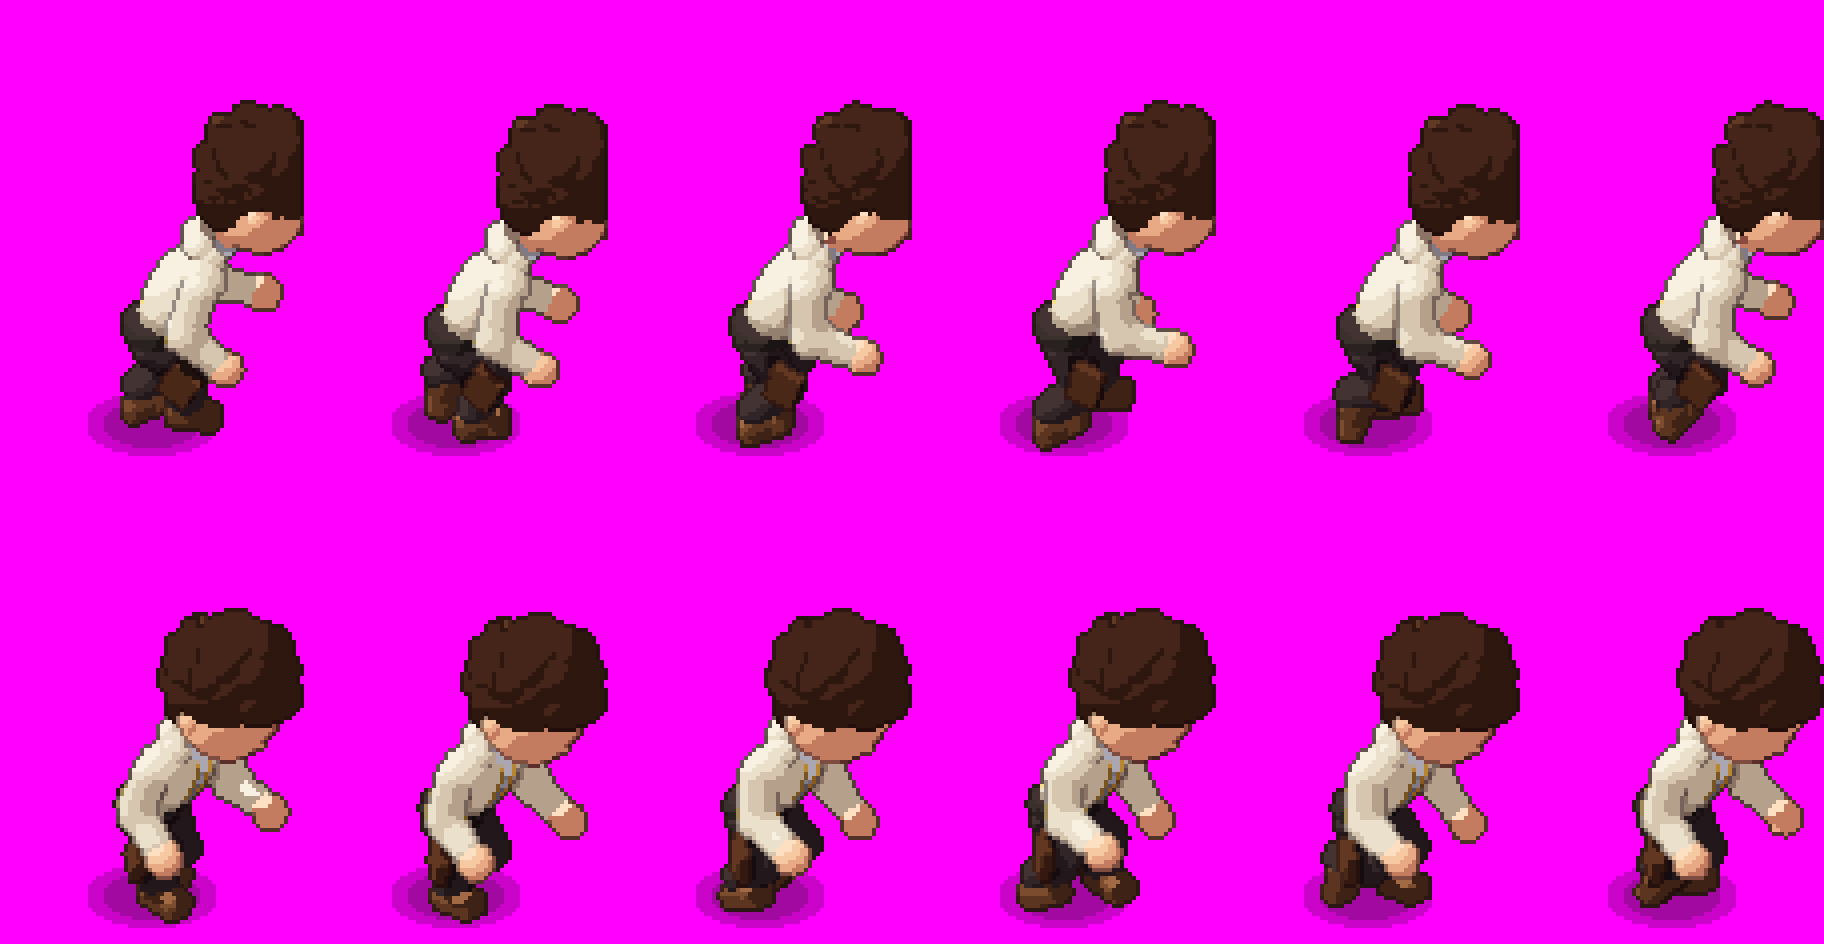
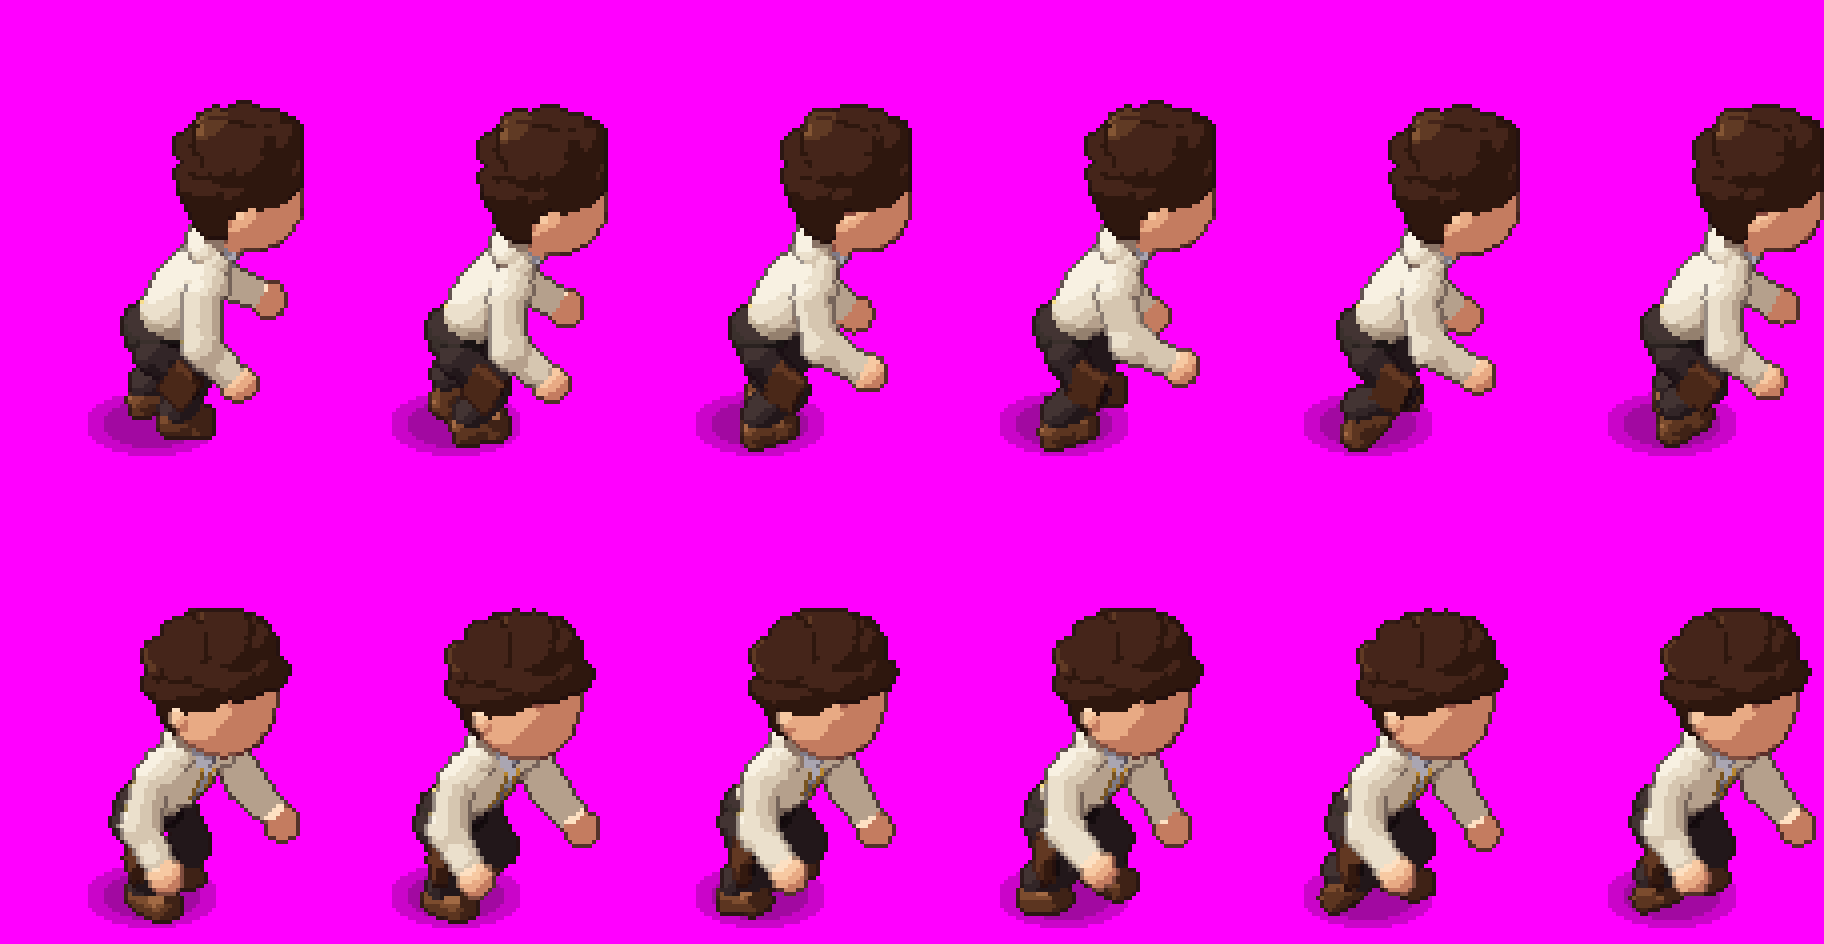
Guia do andar agachado no jeito da referência do Felipe
Cabeça erguida olhando para a frente, braços afastados do corpo e
dobrados com as mãos na altura dos joelhos, pernas mais abertas, passo
curto e o pé baixo. O pedido do gerador ganha a imagem 5 (a referência
do movimento, só para entender o andar).

Claude-Session: https://claude.ai/code/session_01GewMJN2dFJ5tMTC2oy9kJJ

diff --git a/scripts/3d/estilo/agente_personagem/guia_acoes.py b/scripts/3d/estilo/agente_personagem/guia_acoes.py
@@ -23,13 +23,13 @@ DIAG = ['se', 'sw', 'ne', 'nw']
 PARES = [('n', 'ne'), ('e', 'se'), ('s', 'sw'), ('w', 'nw')]
 
 
-def pose_livre(pernas, braco, incl=0.0, resp=0.0):
+def pose_livre(pernas, braco, incl=0.0, resp=0.0, largura=0.095):
     """Como alosi.pose, mas com o ângulo de cada perna (coxa, joelho, pé) e de cada braço (balanço, cotovelo) dados."""
     import alosi as A
     J = {'resp': resp, 'olhos': True, 'incl': incl, 'braco': braco}
     pes = {}
     for lado, (th, kj, pe) in pernas.items():
-        a = 0.095 * (1 if lado == 'd' else -1)
+        a = largura * (1 if lado == 'd' else -1)
         H = np.array([a, 0.0, A.QUADRIL_Z])
         K = H + A.COXA * np.array([0, math.sin(th), -math.cos(th)])
         th2 = th - kj
@@ -57,31 +57,39 @@ def abrir(k):
 
 
 def agachado(fase):
-    """O andar agachado: o ciclo do andar com os joelhos dobrados, o quadril baixo e o corpo para a frente."""
-    import alosi as A
-    J0 = A.pose(andar=fase)
+    """
+    O andar agachado (sneak walk, como a referência do Felipe): os joelhos bem dobrados e as pernas mais abertas, o
+    quadril baixo, o tronco curvado para a frente, mas a cabeça erguida olhando para a frente; os braços soltos, um
+    pouco para fora do corpo e dobrados no cotovelo, as mãos na altura dos joelhos; passos curtos, o pé baixo, quase
+    sem subir e descer.
+    """
     pernas = {}
     p = fase
-    Am = 0.32
+    Am = 0.22
     for lado, f0 in (('d', 0.0), ('e', 0.5)):
         q = (p - f0) % 1.0
         th = Am * math.cos(2 * math.pi * q)
         if q > 0.5:
             kk = math.sin(math.pi * (q - 0.5) / 0.5)
-            kj, pe = 0.75 * kk, -0.3 * kk
+            kj, pe = 0.45 * kk, -0.2 * kk
         else:
-            kj, pe = 0.12 * max(0.0, math.sin(math.pi * q / 0.5)), 0.0
-        pernas[lado] = (th + 0.75, kj + 1.25, pe + 0.35)
-    bd = -0.25 * math.cos(2 * math.pi * p)
-    # os braços dobrados na frente do corpo, perto do peito
-    braco = {'d': (bd + 0.55, 1.1), 'e': (-bd + 0.55, 1.1)}
-    J = pose_livre(pernas, braco, incl=0.0)
-    J['curva'] = 0.6           # o tronco curvado para a frente (~35 graus)
+            kj, pe = 0.08 * max(0.0, math.sin(math.pi * q / 0.5)), 0.0
+        pernas[lado] = (th + 0.8, kj + 1.35, pe + 0.4)
+    bd = -0.18 * math.cos(2 * math.pi * p)
+    # os braços: o tronco curvado leva o "para baixo" do corpo para trás; o balanço de 0,8 deixa o braço quase em pé
+    # no mundo (um pouco à frente) e o cotovelo dobrado leva o antebraço para a frente, a mão na altura do joelho
+    braco = {'d': (bd + 0.8, 0.75), 'e': (-bd + 0.8, 0.75)}
+    J = pose_livre(pernas, braco, incl=0.0, largura=0.13)
+    J['curva'] = 0.65          # o tronco curvado para a frente (~37 graus)
+    J['cabeca_ergue'] = 0.45   # a cabeça volta para cima (olha para a frente, não para o chão)
+    J['abre'] = 0.35           # os braços afastados do corpo
     return J
 
 
 # as peças que ficam com as pernas (o resto do corpo curva para a frente a partir do quadril)
 BAIXO = ('calca_', 'bota_', 'quadril', 'cinto', 'livro')
+# as peças da cabeça (voltam para cima em volta do pescoço: J['cabeca_ergue'])
+CABECA = ('cabeca', 'nariz', 'orelha', 'cabelo')
 
 
 def _curvar(A):
@@ -98,21 +106,31 @@ def _curvar(A):
         if not ang:
             return partes
         piv = np.array([0.0, 0.0, 0.52 + J['sobe']])
-        c, s_ = math.cos(ang), math.sin(ang)
 
-        def girar(f):
+        def volta(L, pv, a):
+            # o inverso do giro para a frente de `a` em volta de pv (eixo x): o ponto do mundo volta para a peça reta
+            q = L - pv
+            ca, sa = math.cos(a), math.sin(a)
+            y = ca * q[:, 1] - sa * q[:, 2]
+            z = sa * q[:, 1] + ca * q[:, 2]
+            return np.stack([q[:, 0], y, z], 1) + pv
+
+        pesc = np.array([0.0, 0.0, 1.1 + J['sobe']])
+        ergue = J.get('cabeca_ergue', 0.0)
+
+        def girar(f, cab=False):
             def d(L):
-                q = L - piv
-                # o inverso do giro para a frente (em volta do eixo a): o ponto do mundo volta para a peça reta
-                y = c * q[:, 1] - s_ * q[:, 2]
-                z = s_ * q[:, 1] + c * q[:, 2]
-                return f(np.stack([q[:, 0], y, z], 1) + piv)
+                R = volta(L, piv, ang)
+                if cab and ergue:
+                    R = volta(R, pesc, -ergue)
+                return f(R)
             return d
         for p in partes:
             if not p.nome.startswith(BAIXO):
-                p.d = girar(p.d)
+                cab = p.nome.startswith(CABECA)
+                p.d = girar(p.d, cab)
                 if p.liso is not None:
-                    p.liso = girar(p.liso)
+                    p.liso = girar(p.liso, cab)
         return partes
     A.montar = montar
     A.detalhes = lambda q: None        # o guia não precisa do rosto (o gerador desenha)

diff --git a/scripts/3d/estilo/agente_personagem/alosi.py b/scripts/3d/estilo/agente_personagem/alosi.py
@@ -320,7 +320,7 @@ def montar(J):
         bal, cot = J['braco'][lado]
         Ob = T0 + np.array([0.205 * s, -0.01, 0.12])
         # o braço sai um pouco do corpo (o vão entre o braço e o tronco)
-        ab = 0.11
+        ab = J.get('abre', 0.11)
         Cv = Ob + 0.2 * np.array([math.sin(ab) * s, math.sin(bal), -math.cos(bal)])
         bal2 = bal + cot
         Pu = Cv + 0.16 * np.array([math.sin(0.04) * s, math.sin(bal2), -math.cos(bal2)])
